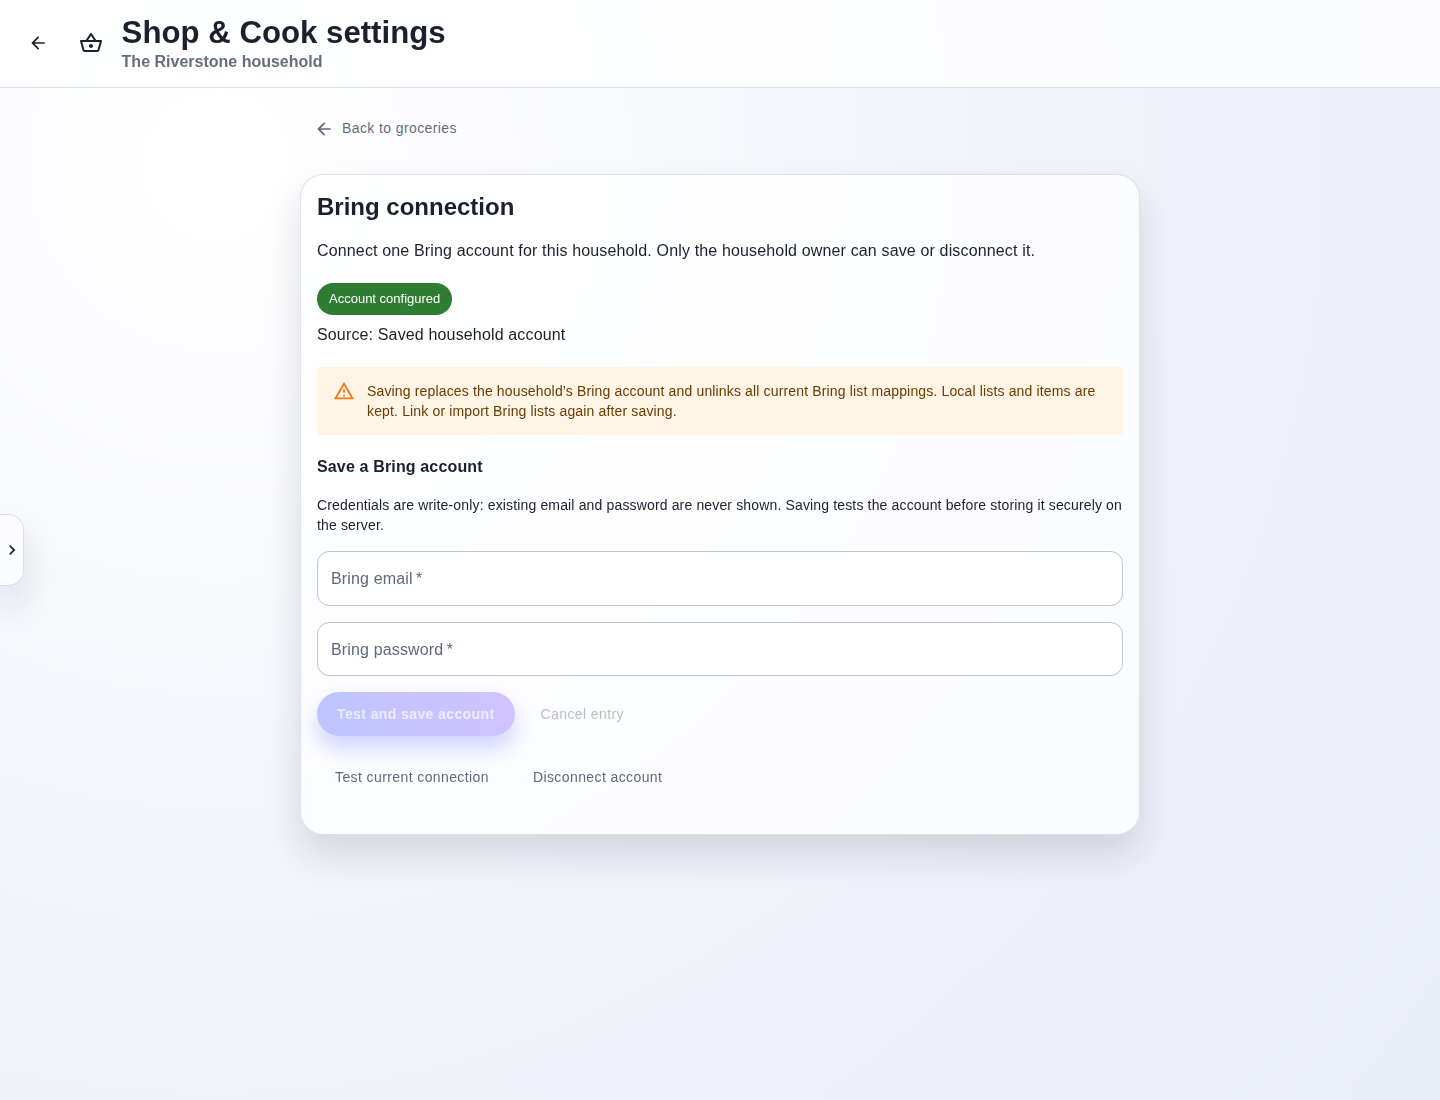
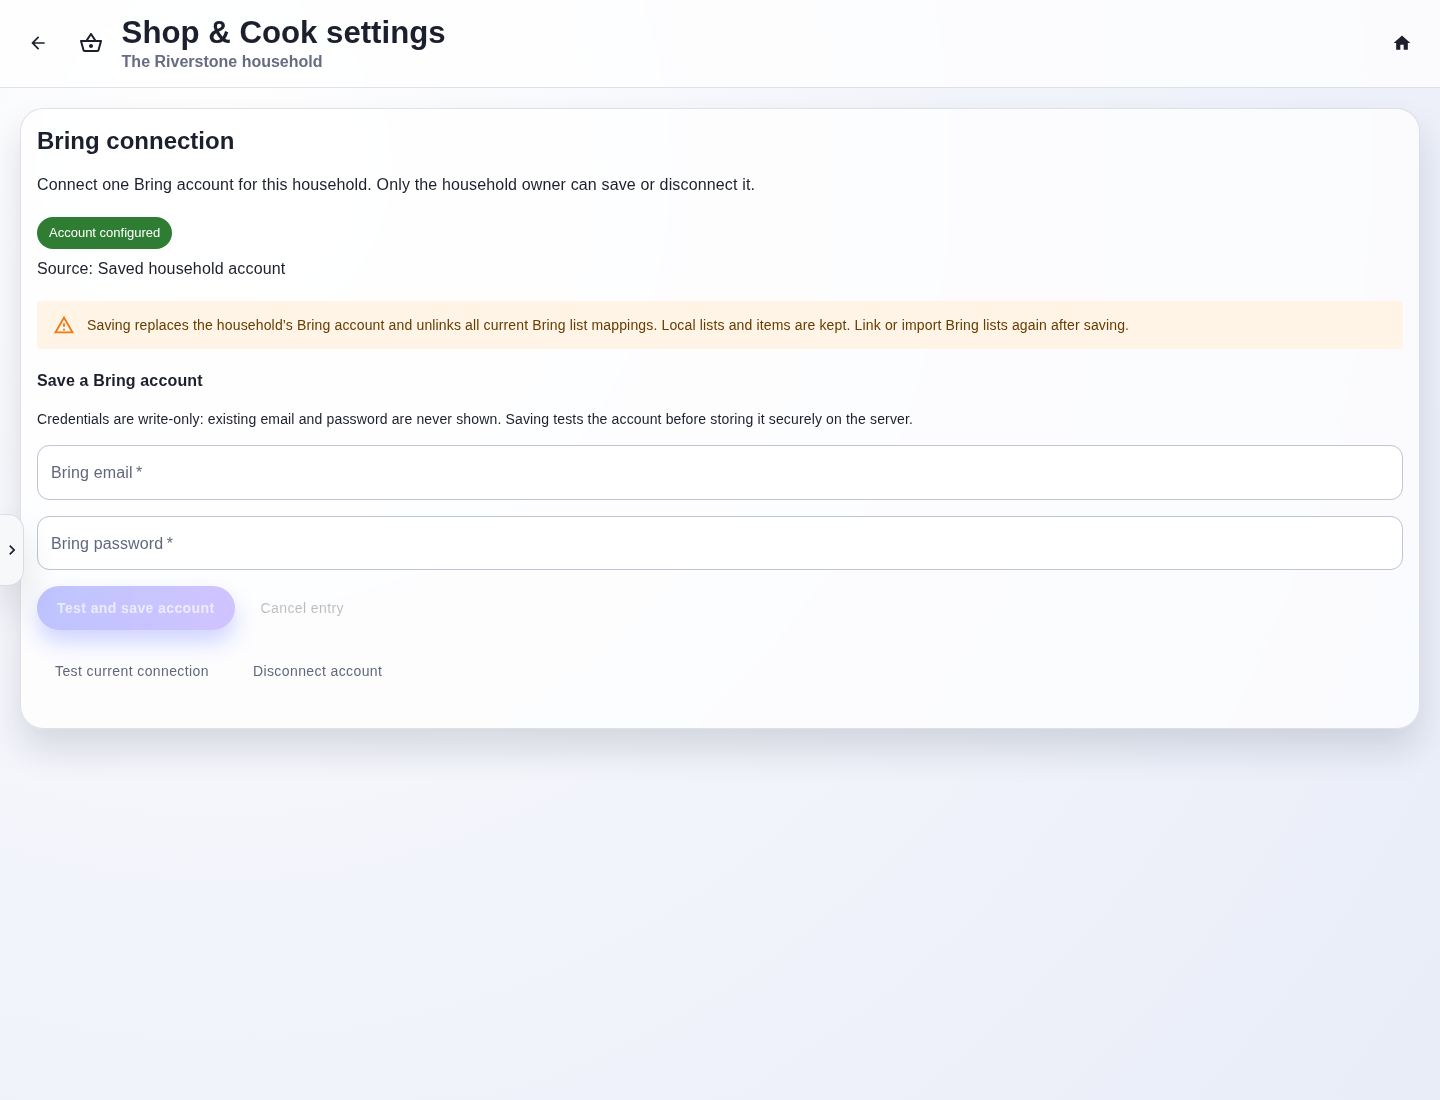
Match grocery settings header navigation to Calendar settings

diff --git a/frontend/src/pages/GrocerySettingsPage.stories.tsx b/frontend/src/pages/GrocerySettingsPage.stories.tsx
@@ -107,6 +107,13 @@ export const ConfiguredAccount: Story = {
   play: async ({ canvasElement }) => {
     const canvas = within(canvasElement);
     await expect(await canvas.findByText("Account configured")).toBeVisible();
+    const header = within(canvas.getByRole("banner"));
+    for (const name of ["Go back", "Go to groceries"]) {
+      await expect(header.getByRole("button", { name })).toBeVisible();
+      await expect(header.getByRole("button", { name })).toHaveAttribute("title", name);
+    }
+    await expect(within(canvas.getByRole("main")).queryByRole("button", { name: /back|groceries/i })).toBeNull();
+    await expect(canvas.queryByRole("button", { name: "Back to groceries" })).toBeNull();
     await expectBlank(canvasElement);
   },
 };
@@ -224,11 +231,38 @@ export const CancelAndNavigationClearSecrets: Story = {
     await userEvent.click(canvas.getByRole("button", { name: "Switch household" }));
     await canvas.findByText("No account configured");
     await expectBlank(canvasElement);
-    await enterAccount(canvasElement);
-    await userEvent.click(canvas.getByRole("button", { name: "Back to groceries" }));
-    await userEvent.click(canvas.getByRole("button", { name: "Reopen settings" }));
-    await canvas.findByText("No account configured");
-    await expectBlank(canvasElement);
+    for (const name of ["Go back", "Go to groceries"]) {
+      await enterAccount(canvasElement);
+      await userEvent.click(within(canvas.getByRole("banner")).getByRole("button", { name }));
+      await userEvent.click(canvas.getByRole("button", { name: "Reopen settings" }));
+      await canvas.findByText("No account configured");
+      await expectBlank(canvasElement);
+    }
+  },
+};
+
+export const InFlightSaveNavigationAbort: Story = {
+  args: { allowNavigation: true },
+  parameters: { connectionMock: { delayedSave: true } },
+  play: async ({ canvasElement }) => {
+    const canvas = within(canvasElement);
+    for (const name of ["Go back", "Go to groceries"]) {
+      await enterAccount(canvasElement);
+      const password = canvas.getByLabelText(/Bring password/);
+      await userEvent.click(canvas.getByRole("button", { name: "Test and save account" }));
+      await expect(canvas.getByText("Working on Bring connection…")).toBeVisible();
+      await expectBlank(canvasElement);
+      const navigation = within(canvas.getByRole("banner")).getByRole("button", { name });
+      await expect(navigation).toBeEnabled();
+      await userEvent.click(navigation);
+      await expect(password).toHaveValue("");
+      await expect(canvas.queryByRole("main")).toBeNull();
+      await new Promise((resolve) => setTimeout(resolve, 1000));
+      await expect(canvas.queryByText(/Bring connection tested and saved/)).toBeNull();
+      await userEvent.click(canvas.getByRole("button", { name: "Reopen settings" }));
+      await canvas.findByText("Account configured");
+      await expectBlank(canvasElement);
+    }
   },
 };
 

diff --git a/frontend/src/pages/GrocerySettingsPage.tsx b/frontend/src/pages/GrocerySettingsPage.tsx
@@ -1,5 +1,6 @@
 import { useEffect, useRef, useState, type ReactNode } from "react";
 import ArrowBackIcon from "@mui/icons-material/ArrowBack";
+import HomeIcon from "@mui/icons-material/Home";
 import { Alert, Box, Chip, CircularProgress, DialogTitle, Stack, Typography } from "@mui/material";
 import { createGroceryClient } from "../features/groceries/client";
 import type { BringConnection } from "../features/groceries/types";
@@ -110,11 +111,11 @@ function ConnectionSession({ householdId, householdName, accessToken, onBack, mo
   const disabled = loading || busy || !connection?.canConfigure;
   return <div className="dashboard-page settings-page">
     <header className="dashboard-header settings-header" role="banner">
-      <button type="button" className="icon-button" onClick={back} aria-label="Back to Shop & Cook"><ArrowBackIcon fontSize="small" /></button>
+      <button type="button" className="icon-button" onClick={back} title="Go back" aria-label="Go back"><ArrowBackIcon fontSize="small" /></button>
       <div className="header-branding">{moduleNavigation}<div><h1>Shop &amp; Cook settings</h1><p>{householdName}</p></div></div>
+      <button type="button" className="icon-button" onClick={back} title="Go to groceries" aria-label="Go to groceries"><HomeIcon fontSize="small" /></button>
     </header>
-    <Box component="main" className="settings-main" sx={{ gap: 3, maxWidth: 880, width: "100%", boxSizing: "border-box", mx: "auto" }}>
-      <SecondaryButton onClick={back} startIcon={<ArrowBackIcon />} sx={{ justifySelf: "start" }}>Back to groceries</SecondaryButton>
+    <main className="settings-main">
       <section className="settings-card">
         <Stack sx={{ gap: 2.5 }}>
           <Box><Typography variant="h5" component="h2" sx={{ fontWeight: 700 }}>Bring connection</Typography>
@@ -147,7 +148,7 @@ function ConnectionSession({ householdId, householdName, accessToken, onBack, mo
           <Typography role="status" aria-live="polite">{busy ? "Working on Bring connection…" : ""}</Typography>
         </Stack>
       </section>
-    </Box>
+    </main>
     <GlassDialog open={confirmDisconnect} onClose={() => { if (!busy) setConfirmDisconnect(false); }} aria-labelledby="disconnect-bring-title">
       <DialogTitle id="disconnect-bring-title">Disconnect Bring account?</DialogTitle>
       <DialogContentPanel>

diff --git a/frontend/src/pages/GroceriesPage.stories.tsx b/frontend/src/pages/GroceriesPage.stories.tsx
@@ -222,14 +222,17 @@ export const OpenConnectionSettings: Story = {
   play: async ({ canvasElement, args }) => {
     const canvas = within(canvasElement);
     await canvas.findByRole("heading", { name: "Weekly shop" });
-    await userEvent.click(within(canvas.getByRole("banner")).getByRole("button", { name: "Open settings" }));
-    await expect(args.onNavigate).toHaveBeenCalledTimes(1);
-    await expect(args.onNavigate).toHaveBeenCalledWith("/groceries/settings");
-    await expect(await canvas.findByRole("heading", { name: "Bring connection" })).toBeVisible();
-    await expect(canvas.getByLabelText(/Bring email/)).toHaveValue("");
-    await expect(canvas.getByLabelText(/Bring password/)).toHaveValue("");
-    await userEvent.click(canvas.getByRole("button", { name: "Back to groceries" }));
-    await expect(await canvas.findByRole("heading", { name: "Weekly shop" })).toBeVisible();
+    for (const name of ["Go back", "Go to groceries"]) {
+      await userEvent.click(within(canvas.getByRole("banner")).getByRole("button", { name: "Open settings" }));
+      await expect(args.onNavigate).toHaveBeenCalledWith("/groceries/settings");
+      await expect(await canvas.findByRole("heading", { name: "Bring connection" })).toBeVisible();
+      await expect(canvas.getByLabelText(/Bring email/)).toHaveValue("");
+      await expect(canvas.getByLabelText(/Bring password/)).toHaveValue("");
+      await expect(within(canvas.getByRole("main")).queryByRole("button", { name: /back|groceries/i })).toBeNull();
+      await userEvent.click(within(canvas.getByRole("banner")).getByRole("button", { name }));
+      await expect(await canvas.findByRole("heading", { name: "Weekly shop" })).toBeVisible();
+    }
+    await expect(args.onNavigate).toHaveBeenCalledTimes(2);
   },
 };
 

diff --git a/CHANGELOG.md b/CHANGELOG.md
@@ -2,6 +2,8 @@
 
 ## Unreleased
 
+- Matched Shop & Cook settings navigation to Calendar settings, with back and home icons in the header and no duplicate back button in the content. Updated screenshot: `docs/screenshots/bring-connection-settings.png`.
+
 - Matched the Shop & Cook grocery header to Calendar: module navigation icon, grocery-settings icon, and the same account avatar menu for profile, households, and logout, without a back button. Updated screenshot: `docs/screenshots/grocery-lists.png`.
 
 - Fixed SWA API packaging so workspace dependency hoisting cannot omit the Bring! SDK. Deferred optional client loading to keep connection settings and local grocery handlers available if the SDK cannot load.
